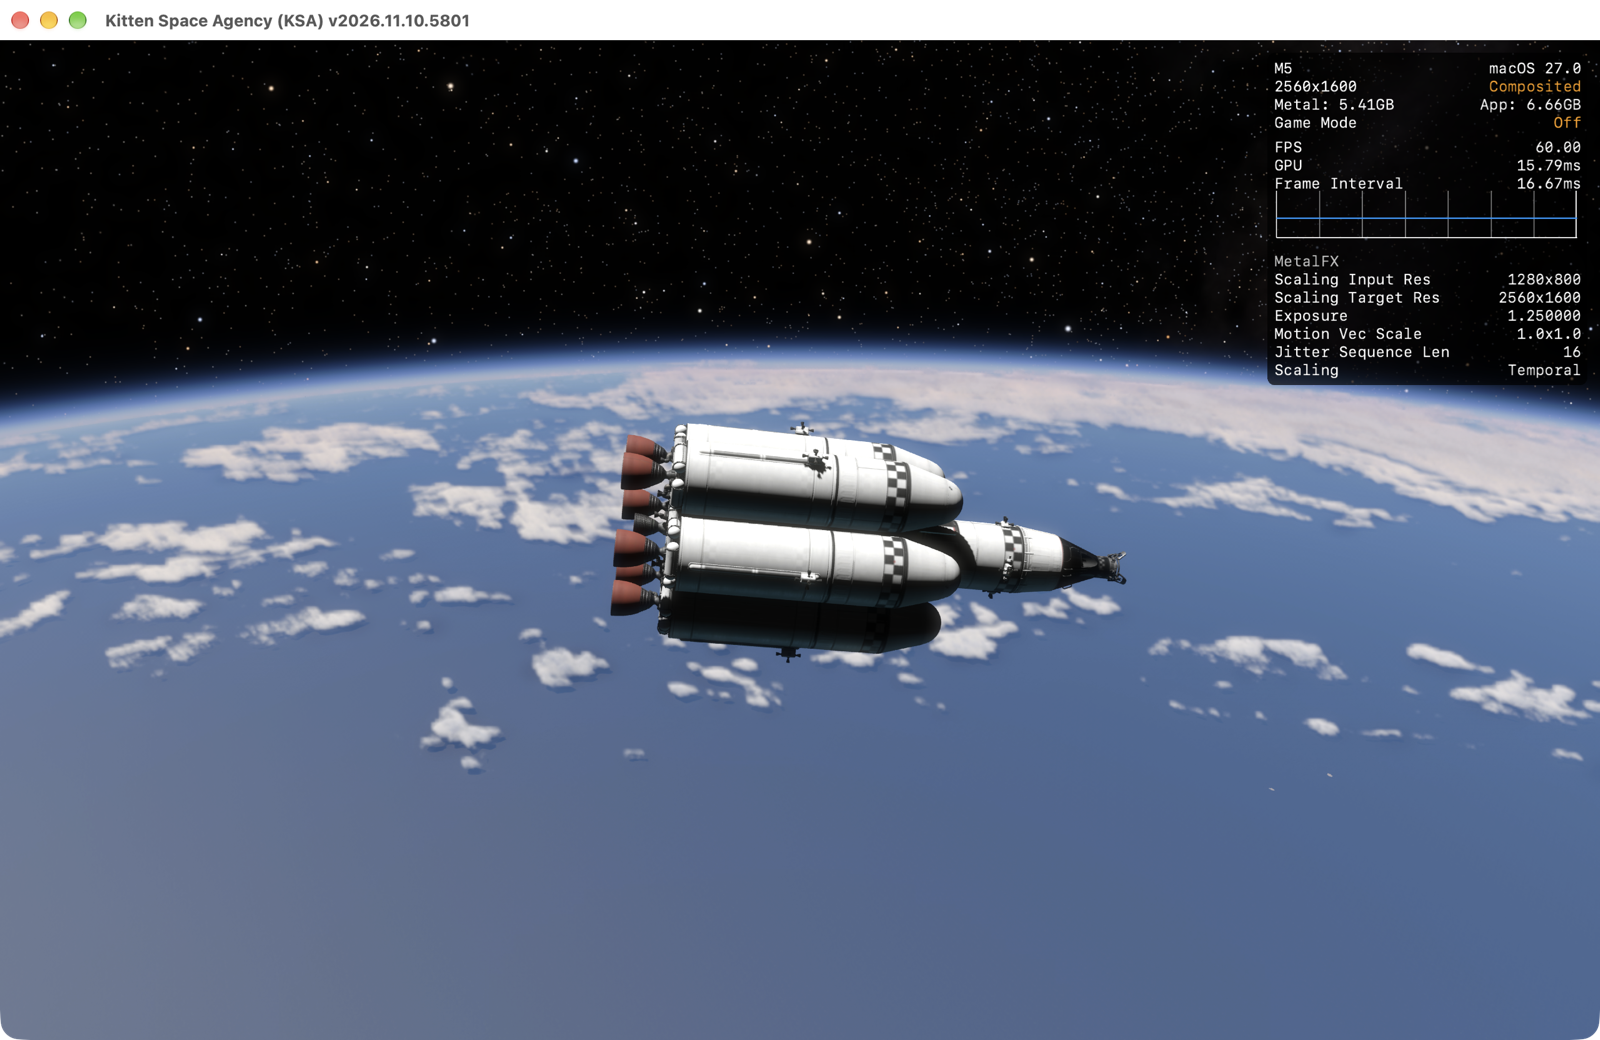
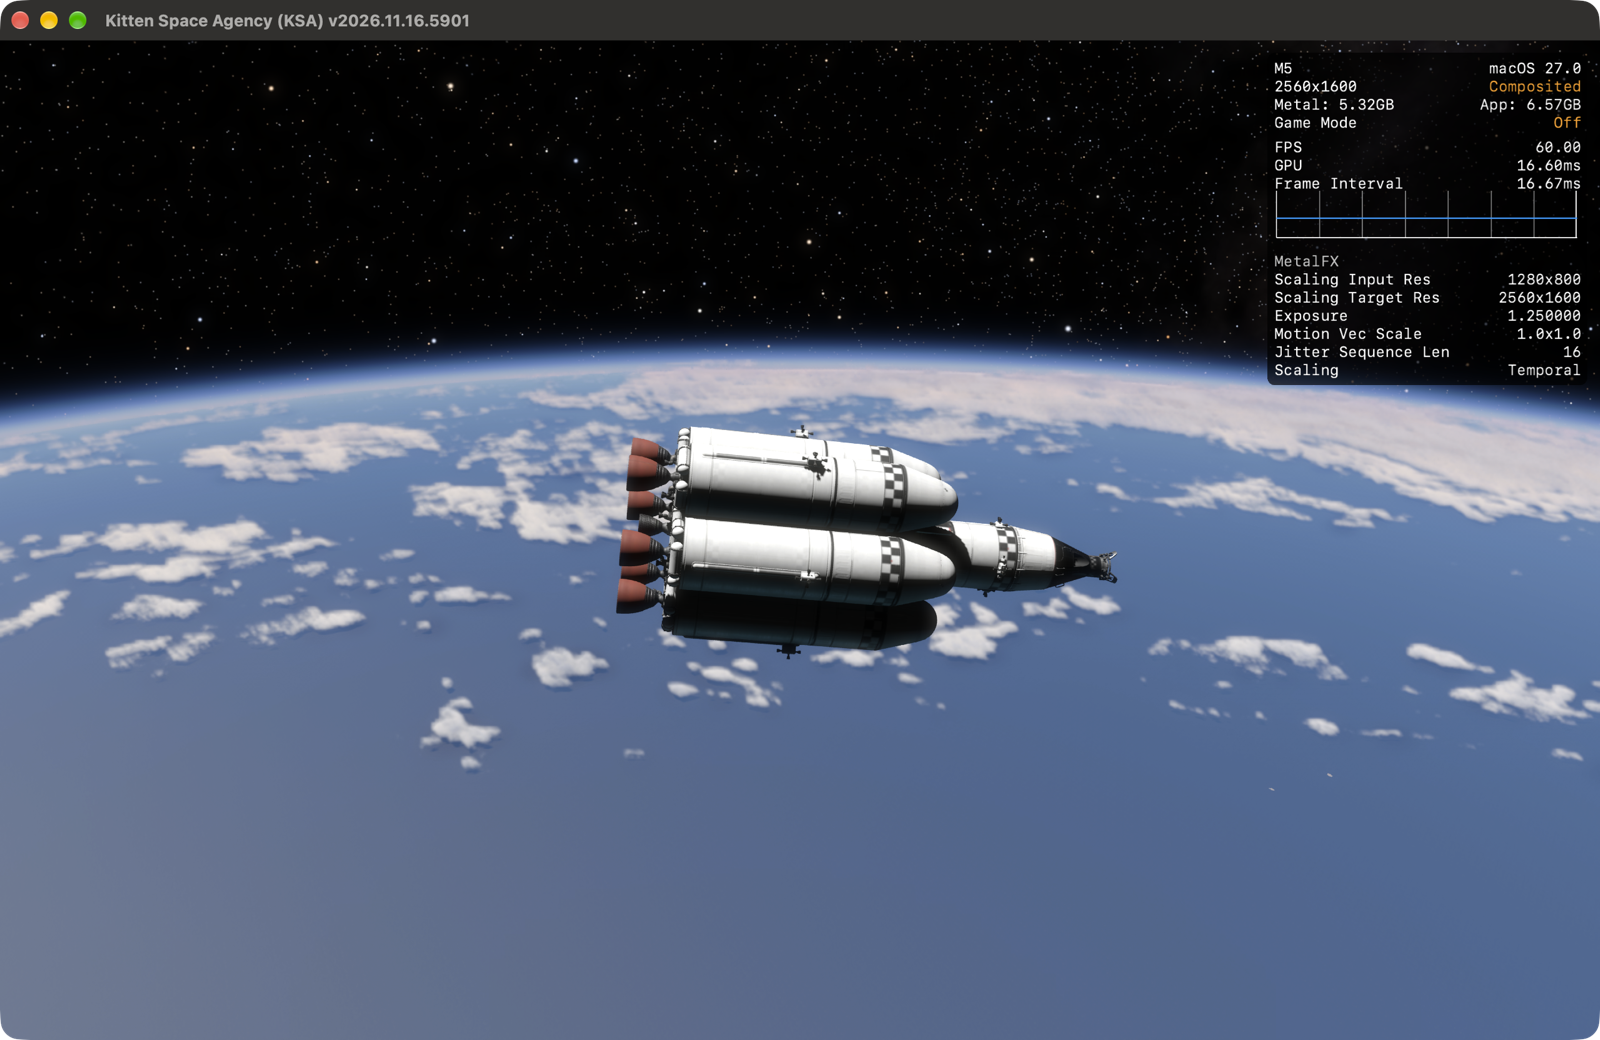
KSA 5901: the READMEs name its archive, the pictures retaken on it
The quick starts named KSA 2026.11.10.5801's archive. The pictures made by scripts/readme-screenshots.sh on
KSA 2026.11.16.5901: the game at 60 fps under Apple's HUD (16.6 ms of the GPU, 15.8 on 5801), and the Mac Port tab.

Changed region(s): [[0.0, 0.0, 1.0, 0.0615], [0.375, 0.4, 0.7188, 0.6154], [0.4375, 0.6154, 0.5625, 0.6462]]

diff --git a/src/player/port-folder/README.md b/src/player/port-folder/README.md
@@ -2,7 +2,7 @@
 
 This folder turns the Linux version of Kitten Space Agency into a Mac app. It holds everything except the game,
 which you download yourself from [ksa.ahwoo.com](https://ksa.ahwoo.com) (a file like
-`ksa_linux_v2026.11.10.5801.tar.gz`, left in your Downloads folder). It needs an Apple Silicon Mac with macOS 26.
+`ksa_linux_v2026.11.16.5901.tar.gz`, left in your Downloads folder). It needs an Apple Silicon Mac with macOS 26.
 
 In Terminal, from this folder:
 

diff --git a/README.md b/README.md
@@ -25,7 +25,7 @@ You need:
 
 - A Mac with Apple Silicon (M1 or later) and **macOS 26** or later.
 - The **Linux version of KSA** from [ksa.ahwoo.com](https://ksa.ahwoo.com). It is a file like
-  `ksa_linux_v2026.11.10.5801.tar.gz`; leave it in your Downloads folder.
+  `ksa_linux_v2026.11.16.5901.tar.gz`; leave it in your Downloads folder.
 
 Then:
 
